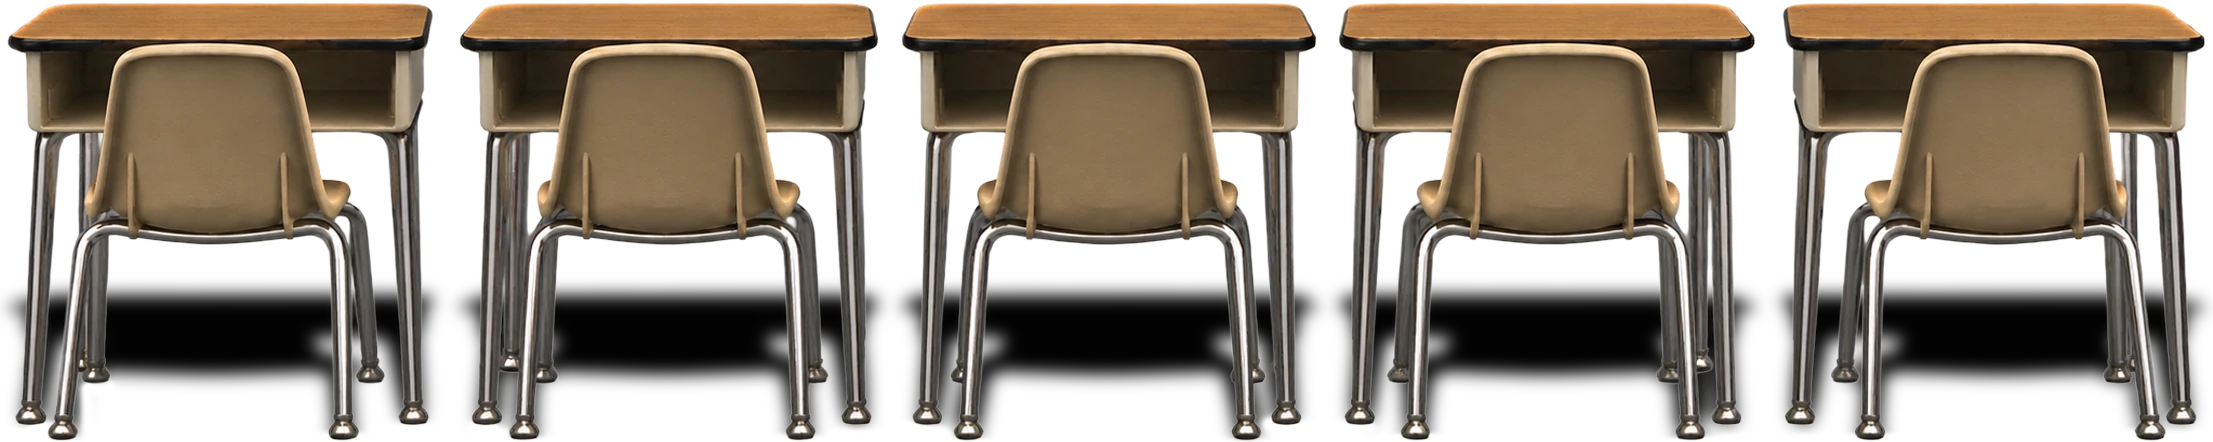
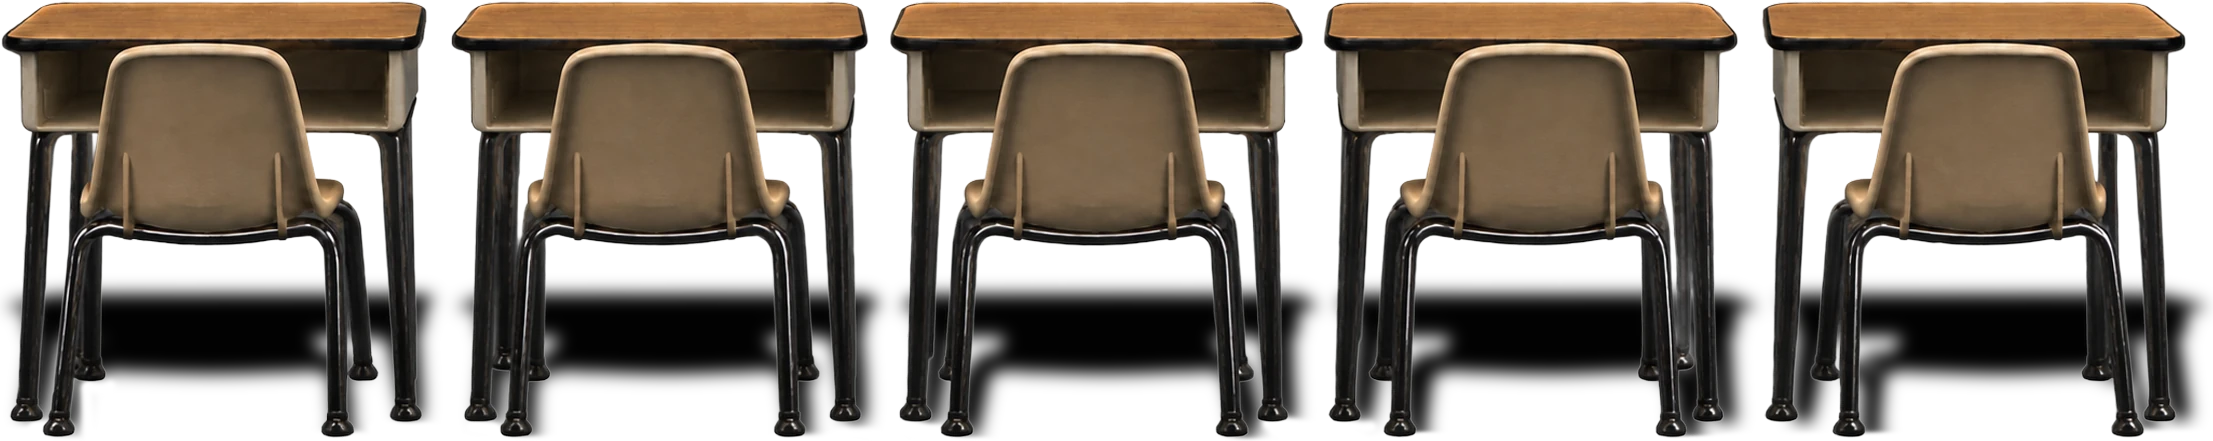
Expo 80-е: парты из исправленного Chairs_stud.png (Эльдар: «обновил файл — то был не тот»): чёрные ножки, места сняты заново (кромки 2…2184, ножки 437), пончики на 691. ASSET_V 20261030-desks3.

diff --git a/expo/expo.html b/expo/expo.html
@@ -14733,13 +14733,13 @@ const BENCH_SHEETS = [
    высота прежнего прилавка (700), её никто не подгонял. Ниже 455 — мягкая тень
    самого рендера, своей тени зал не кладёт. */
 /* НОВЫЕ ПАРТЫ (Эльдар, 30.10.2026: «сохранил новые стулья, их можно менять» — Chairs_stud.png в
-   артефактах, 2288 × 674, обрезан по альфе > 8 до 2213 × 442 с (42, 131)): это другой рендер, не те же
-   парты с новыми стульями, поэтому все места сняты заново — кромки по самой широкой строке
-   столешниц (37…43, альфа > 200): 8…2203; последняя непрозрачная строка ножек — 439, верх — 4;
-   чёрный кант передней кромки — строки 40…42. Было (Clean Five-Desk, 21.10.2026):
+   артефактах, 2288 × 674, файл обновлён в 14:22 — «то был не тот»; обрезан по альфе > 8 до 2213 × 441
+   с (38, 132)): это другой рендер, не те же парты с новыми стульями, поэтому все места сняты заново —
+   кромки по самой широкой строке столешниц (40…42, альфа > 200): 2…2184; последняя непрозрачная
+   строка ножек — 436, верх — 2; чёрный кант передней кромки — строки 40…42. Было (Clean Five-Desk, 21.10.2026):
    {c0: 37, c1: 2131, foot: 455, top: 16, desks: [[59, 445], [484, 861], [897, 1273], [1308, 1686], [1725, 2108]]} */
-const DESKS80 = {c0: 8, c1: 2203, foot: 440, top: 4, w: 2038,
-  desks: [[8, 427], [460, 876], [903, 1315], [1340, 1753], [1787, 2203]]};
+const DESKS80 = {c0: 2, c1: 2184, foot: 437, top: 2, w: 2038,
+  desks: [[2, 422], [452, 866], [891, 1301], [1325, 1736], [1767, 2184]]};
 function desksRun(tb){
   if (tb._desks == null){
     const b = BEATS.find(q => q.y === '1984' && q.t === 'CONSOLIDATION');
@@ -15187,7 +15187,7 @@ const PHOTO_TEX = {};
 /* the skin's files are re-cut under the same names as the room is tuned, so a
    browser that has already seen one keeps serving it back; every photo asset
    carries the build stamp and a new cut is fetched the moment it exists */
-const ASSET_V = '20261030-desks2';   // 30.10.2026: новые парты 80-х из Chairs_stud.png (до этого 20261030-crt2)   // 30.10.2026: ЭЛТ 2002 из CRTmonitor.png (до этого 20261030-p85)   // 30.10.2026: стена-плакат 1985 (до этого 20261029-bzf)   // 29.10.2026: фабрика BruxZir (до этого 20261029-tester)   // 29.10.2026: машина R&D 2000 из фото-деталей (до этого 20261028-realism)   // 27.10.2026: капа PlaySafe (до этого 20261007-film-v2 — новый основной фильм)
+const ASSET_V = '20261030-desks3';   // 30.10.2026: новые парты 80-х из Chairs_stud.png, исправленный файл (до этого 20261030-desks2, ещё раньше 20261030-crt2)   // 30.10.2026: ЭЛТ 2002 из CRTmonitor.png (до этого 20261030-p85)   // 30.10.2026: стена-плакат 1985 (до этого 20261029-bzf)   // 29.10.2026: фабрика BruxZir (до этого 20261029-tester)   // 29.10.2026: машина R&D 2000 из фото-деталей (до этого 20261028-realism)   // 27.10.2026: капа PlaySafe (до этого 20261007-film-v2 — новый основной фильм)
 const vurl = p => p + (p.includes('?') ? '&' : '?') + 'v=' + ASSET_V;
 /* EVERY PHOTOGRAPH IS SERVED AS WEBP. The names below still say .png and .jpg
    because that is what the file in the studio is; on the wire it is the webp
@@ -15617,9 +15617,9 @@ function initDecor(){
     // от середины комнаты, а не от 1984-го: с 1985-м (27.10.2026) это разные точки, а парты стоят от середины
     const cxR = benchAnchorX({y:'1984', y2:'1985'});
     const dX = cxR != null ? cxR + 900 : bdo && bdo.x + 620;
-    /* новые парты (30.10.2026, Chairs_stud): середина столешницы — строка 22 (верх 4, кант 40),
-       1080 − (440 − 22) · 2038/2195 ≈ 692; пятая парта — +633…+1019 от середины, коробка на +900 внутри */
-    if (bdo) PROPS.push({x: dX, z: 0, kind: 'ph_donuts', w: 150, footY: 692, noShadow: true,
+    /* новые парты (30.10.2026, Chairs_stud): середина столешницы — строка 21 (верх 2, кант 40),
+       1080 − (437 − 21) · 2038/2182 ≈ 691; пятая парта — +630…+1019 от середины, коробка на +900 внутри */
+    if (bdo) PROPS.push({x: dX, z: 0, kind: 'ph_donuts', w: 150, footY: 691, noShadow: true,
       study: 'FRIDAY DONUTS'});
   }
 
